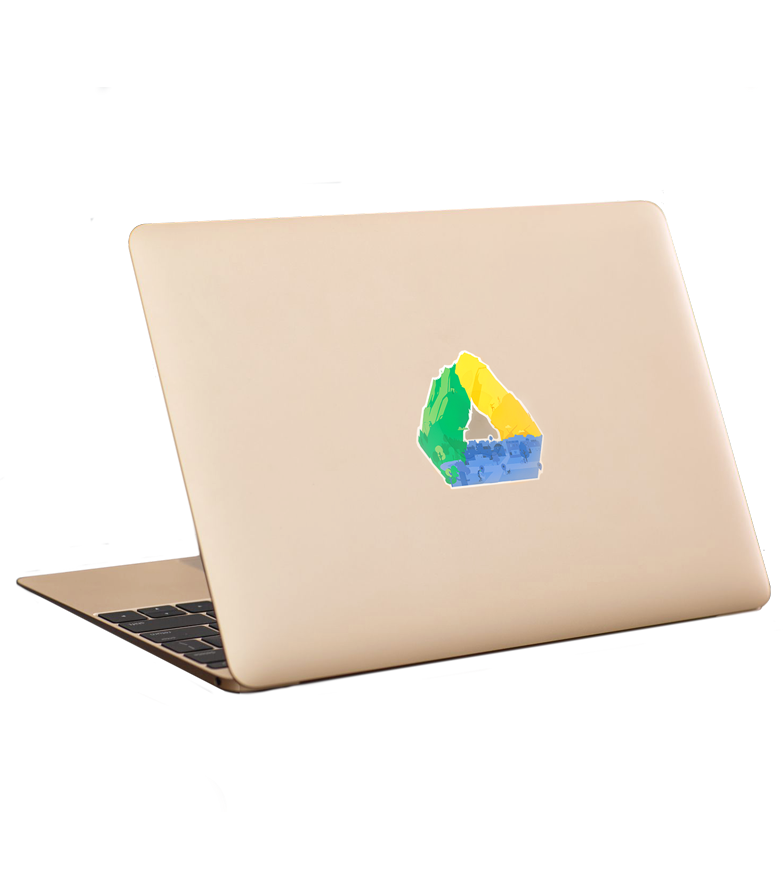
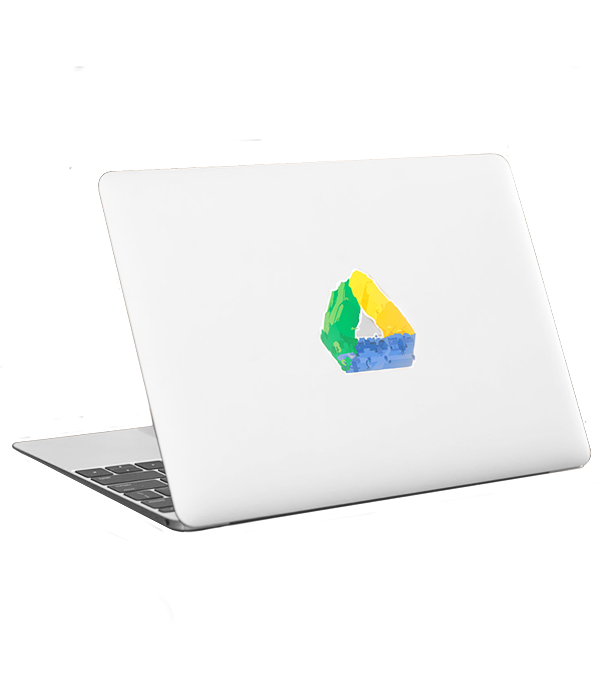
some finessing of the project header images

diff --git a/pages/googleLinkedin/index.html b/pages/googleLinkedin/index.html
@@ -61,7 +61,7 @@
             <h1>GSuite Redesign</h1>
             <h6 class="alttitle">2017 Visual refresh for 2018 Releases<br></h6>
     	</div>
-        <img src="driveSticker.png" style="height:100%; width: auto; position:relative; z-index:-10; left:8%"/>
+        <img class="bgSideElements" src="driveSticker.png" style=""/>
     </section>
     <!-- HERO -->
             
@@ -127,9 +127,12 @@
                 <div class="spacer spacer-small"></div>
 
                 <ul class="gallery gallery-col2 spaced">
-                    <li class="has-animation"><img src="margins.gif" width="100%" alt="everything inspector friendly"/><figcaption>Plugin with Sketch to build in a custom hotkey that turns on and off the *SPEC layers. These were the the layers made to resemble Chrome Inspector, with a nomenclature that matched the desired css</figcaption></li>
+                    <li><img src="margins.gif" width="100%" alt="everything inspector friendly"/><figcaption>Each component ("molecule") was built with hidden *SPEC layers made to resemble Chrome Inspector, with a nomenclature that matched the desired css.<br></br>The custom built Sketch plugin enabled a hotkey to turn on/off the *SPEC layers for easy export to developers.</figcaption></li>
 
-                    <li class="has-animation"><img src="overrides.gif" alt="emotoProcessPic"/></a><figcaption>organizing all the symbols to have easy access to any variant, and building in appropriate overrides for variable properties</figcaption></li>
+                    <li><img src="overrides.gif" alt="emotoProcessPic"/><figcaption>Organized all the symbols to have easy access to any variant, with a appropriate overrides for variable properties</figcaption></li>
+                </ul>
+                <ul class="gallery">
+                    <li><img src="lofiHiFi.gif"/><figcaption>Each component was made with a 'low fidelity' and 'high fidelity' version of itself. For designers using this library, it was meant to expedite transitioning from exploratory mockups to final ones.</figcaption></li>
                 </ul>
             </div>  
         </div>

diff --git a/scripts/css/style.css b/scripts/css/style.css
@@ -823,6 +823,16 @@ header.header-open:not(.header-transparent) + #hero, header.header-open:not(.hea
 /* if wolf item in page-title */
 #hero .page-title .wolf-item  { margin-bottom: 0px; }
 
+#hero .bgSideElements {
+	min-height:70%;
+	max-height:100%;
+	max-width:fit-content;
+	position:relative; 
+	z-index:-10; 
+	left:8%
+
+}
+
 /*-----HERO HEADERS-----*/
 
 * { box-sizing: border-box; }
@@ -1457,6 +1467,9 @@ width:100%;
 	.site-tagline p { 
         font-size: 24px;
     }
+    #hero .bgSideElements {
+		left:-10%
+	}
 }
 
 @media only screen and (min-width: 401px) {
@@ -1768,6 +1781,10 @@ width:100%;
     .site-tagline h5 { 
         font-size: 1.4rem;
     }
+
+  	#hero .bgSideElements {
+  		left: 10%;
+  	}
     /*===== Navigations =====*/
     .cd-nav-trigger {
         top: 94px;

diff --git a/scripts/css/mqueries.css b/scripts/css/mqueries.css
@@ -192,7 +192,7 @@ ul.filter li { padding: 0 6px; }
 #header-filter .title-filter { display: none; }	
 #header-filter .title-filter + ul.filter { margin-top: 0px; }
 
-#hero .page-title:not(.wrapper) { width: calc(100% - 40px); padding-left: 20px; padding-right: 20px; }
+#hero .page-title:not(.wrapper) { width: 100%; padding-left: 20px; padding-right: 20px; }
 #hero.hero-full .page-title, #hero.hero-big .page-title, #hero.hero-half .page-title { left: 0px; }
 #hero.hero-full .page-title.hright, #hero.hero-big .page-title.hright, #hero.hero-half .page-title.hright { right: 20px; }
 #hero.hero-full .page-title.vbottom, #hero.hero-big .page-title.vbottom, #hero.hero-half .page-title.vbottom { bottom: 20px; }
